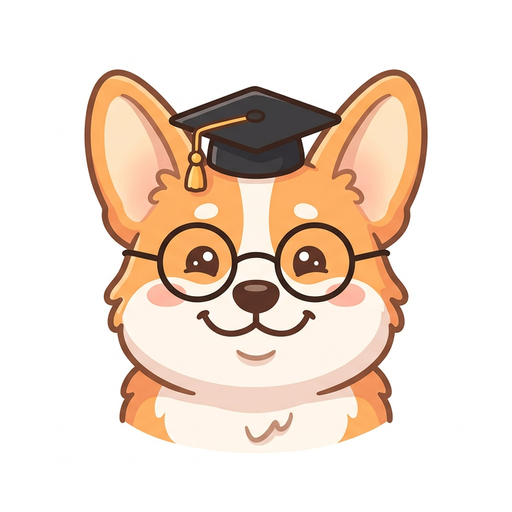
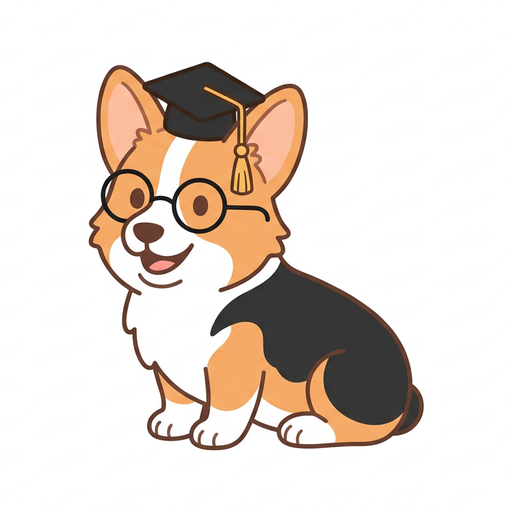
fix(chinese): Kong Kong is tricolor - show the black saddle
- 空空是三色柯基（橙白＋背上一大塊黑），正面胸像看不到黑
- 吉祥物與平台 icon 改為 3/4 側身坐姿，背脊的黑毛清楚可見
- 頭像由 58px 加大到 64px（390x844 實測仍無滾動）
- catalog icon ?v=3

diff --git a/js/catalog.js b/js/catalog.js
@@ -34,7 +34,7 @@ const GAMES = [
     level: "lower",
     blurb: "聽標準普通話，把詞語和圖片配成對。",
     maxScore: 4,
-    icon: "assets/games/zh-pth.png?v=2",
+    icon: "assets/games/zh-pth.png?v=3",
     entry: "games/chinese/pth-match/index.html",
     orientation: "any",
   },
@@ -242,4 +242,5 @@ function gameMax(game) {
   if (game.questions && game.questions.length) return game.questions.length;
   return game.maxScore;
 }
+
 

diff --git a/games/chinese/pth-match/index.html b/games/chinese/pth-match/index.html
@@ -26,7 +26,7 @@
     --gap: 8px;
     --pic: clamp(84px, 27vw, 112px);
     --fmin: 148px;             /* 聽發音卡最小寬 */
-    --mascot: 58px;
+    --mascot: 64px;
     --title: 1.2rem;
     --word: clamp(1.05rem, 4.6vw, 1.3rem);
     --pinyin: .7rem;
@@ -638,6 +638,7 @@ buildMatch();
 </script>
 </body>
 </html>
+
 
 
 

diff --git a/games/chinese/pth-match/make_images.py b/games/chinese/pth-match/make_images.py
@@ -73,18 +73,24 @@ ITEMS = {
 }
 
 # 吉祥物／icon：圓形頭像用，所以主體要留邊、不要頂滿
+# 空空＝三色柯基（橙白＋背上一大塊黑 saddle）、沒有尾巴。
+# 「背上的黑」一定要看得見：所以是 3/4 側身坐姿，不是正面胸像。
 AVATARS = {
     "kongkong": (
-        "head and upper body portrait of a cute chubby corgi puppy with no tail, "
-        "orange and white fur, big upright ears, wearing a small black graduation cap tilted on the head "
-        "and round glasses, cheerful open-mouth smile, waving one front paw, "
+        "sitting tricolor corgi puppy with no tail, seen in three-quarter view turned to its left "
+        "so the large black saddle patch on its back is clearly visible, white chest and front legs, "
+        "tan-orange head, ears and cheeks, white blaze on the muzzle, big upright ears, "
+        "wearing a small black graduation cap tilted on the head and round glasses, "
+        "cheerful open-mouth smile, full body, "
         "centred with generous empty margin around the character",
         "吉祥物（空空，狗博士）",
     ),
     "zh-pth-icon": (
-        "head portrait of a cute chubby corgi puppy with no tail, orange and white fur, "
-        "big upright ears, wearing a small black graduation cap tilted on the head and round glasses, "
-        "cheerful smile, centred with generous empty margin around the character",
+        "sitting tricolor corgi puppy with no tail, three-quarter view turned to its left, "
+        "large black saddle patch clearly visible on the back, white chest and legs, "
+        "tan-orange head and ears, white blaze, big upright ears, "
+        "wearing a small black graduation cap tilted on the head and round glasses, cheerful smile, "
+        "centred with generous empty margin around the character",
         "遊戲 icon（空空）",
     ),
 }
